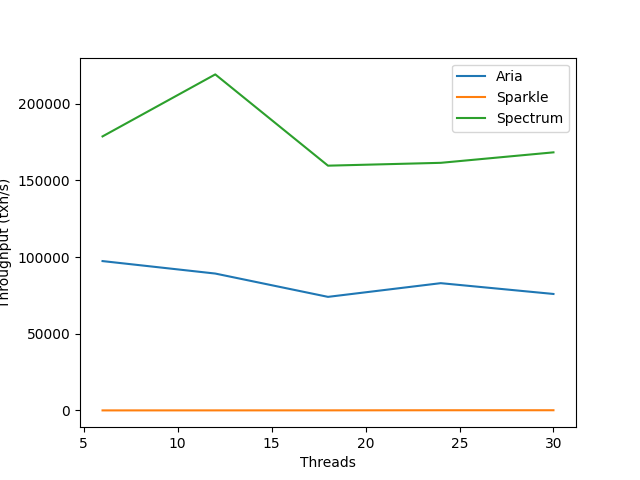
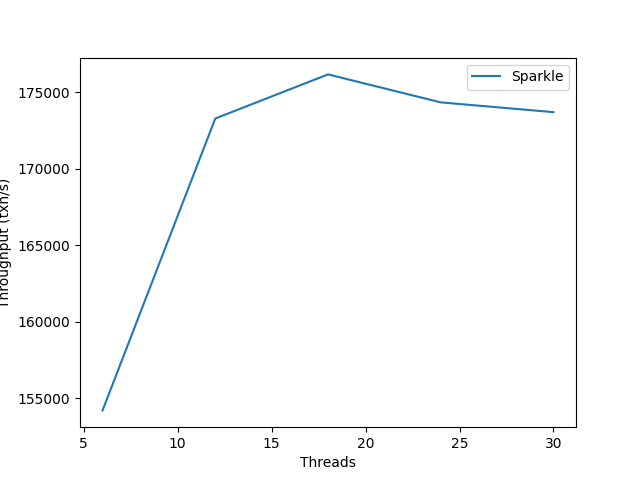
bind core

diff --git a/lib/protocol-calvin.hpp b/lib/protocol-calvin.hpp
@@ -18,8 +18,12 @@ namespace spectrum {
 
 struct CalvinTransaction : public Transaction {
     size_t id;
-    std::vector<std::string> get_rdset();
-    std::vector<std::string> get_wrset();
+    std::vector<std::string> get_rdset(){
+        return rd_set;
+    };
+    std::vector<std::string> get_wrset(){
+        return wr_set;
+    };
 
     std::vector<std::string> rd_set;
     std::vector<std::string> wr_set;
@@ -289,7 +293,7 @@ class Calvin : public Protocol {
     // EVMType             evm_type;
     CalvinTable table;
     Workload &workload;
-    size_t batch_size;
+    size_t batch_size{100};
     Statistics &statistics;
     std::atomic<bool> stop_flag{false};
     std::atomic<size_t> tx_counter{0};
@@ -310,7 +314,7 @@ class Calvin : public Protocol {
 
   public:
     Calvin(Workload &workload, Statistics &statistics, size_t n_threads,
-           size_t table_partitions, size_t batch_size);
+           size_t table_partitions);
     void Start() override;
     void Stop() override;
 };

diff --git a/lib/protocol-sparkle.cpp b/lib/protocol-sparkle.cpp
@@ -244,6 +244,21 @@ Sparkle::Sparkle(Workload& workload, Statistics& statistics, size_t n_executors,
     LOG(INFO) << fmt::format("Sparkle(n_executors={}, n_dispatchers={}, n_table_partitions={})", n_executors, n_dispatchers, table_partitions);
 }
 
+void pin_thread_to_core(std::thread &t) {
+#ifndef __APPLE__
+    static std::size_t core_id = 56;
+    LOG(INFO) << "core_id: " << core_id;
+    cpu_set_t cpuset;
+    CPU_ZERO(&cpuset);
+    auto _core_id = core_id;
+    ++core_id;
+    CPU_SET(core_id, &cpuset);
+    int rc =
+        pthread_setaffinity_np(t.native_handle(), sizeof(cpu_set_t), &cpuset);
+    CHECK(rc == 0);
+#endif
+}
+
 /// @brief start sparkle protocol
 void Sparkle::Start() {
     stop_flag.store(false);
@@ -259,6 +274,7 @@ void Sparkle::Start() {
         executors.push_back(std::thread([this, queue] {
             SparkleExecutor(*this, *queue).Run();
         }));
+        pin_thread_to_core(executors[i]);
     }
 }
 

diff --git a/scripts/bench-suit.py b/scripts/bench-suit.py
@@ -10,11 +10,12 @@ if __name__ == '__main__':
     for n_threads in range(6, 36, 6):
         # n_partitions    = n_threads * 8
         n_partitions    = 1
-        n_dispatchers   = n_threads
+        n_dispatchers   = 2
         protocols       = [
-            f"Aria:{n_threads}:{n_partitions}:128:FALSE", 
+            # f"Aria:{n_threads}:{n_partitions}:128:FALSE", 
+            # f"AriaReordering:{n_threads}:{n_partitions}:128:TRUE",
             f"Sparkle:{n_threads}:{n_dispatchers}:{n_partitions}", 
-            f"Spectrum:{n_threads}:{n_partitions}:{n_threads + 16}:COPYONWRITE"
+            # f"Spectrum:{n_threads}:{n_partitions}:{n_threads + 16}:COPYONWRITE"
         ]
         for cc in protocols:
             print(f"#COMMIT-{hash}",  f"CONFIG-{cc}")

diff --git a/bin/argparse.hpp b/bin/argparse.hpp
@@ -3,6 +3,7 @@
 #include <spectrum/protocol-sparkle.hpp>
 #include <spectrum/protocol-aria-fb.hpp>
 #include <spectrum/protocol-serial.hpp>
+#include <spectrum/protocol-calvin.hpp>
 #include <spectrum/workload.hpp>
 #include <spectrum/workload-smallbank.hpp>
 #include <spectrum/workload-ycsb.hpp>
@@ -104,6 +105,7 @@ std::unique_ptr<Protocol> ParseProtocol(const char* arg, Workload& workload, Sta
     OPT(Sparkle,  INT, INT, INT)
     OPT(Spectrum, INT, INT, INT, EVMTYPE)
     OPT(Serial,   EVMTYPE, INT)
+    OPT(Calvin,   INT, INT)
     #undef OPT
     // fallback to an error
     THROW("unknown protocol option ({})", std::string{name});

diff --git a/lib/protocol-calvin.cpp b/lib/protocol-calvin.cpp
@@ -19,8 +19,8 @@ CalvinTransaction::CalvinTransaction(Transaction&& inner, size_t id):
 {}
 
 Calvin::Calvin(Workload &workload, Statistics &statistics, size_t n_threads,
-               size_t table_partitions, size_t batch_size)
-    : workload{workload}, statistics{statistics}, batch_size{batch_size},
+               size_t table_partitions)
+    : workload{workload}, statistics{statistics},
       table{table_partitions} {
     LOG(INFO) << fmt::format("Calvin({}, {}, {})", n_threads, table_partitions,
                              batch_size)
